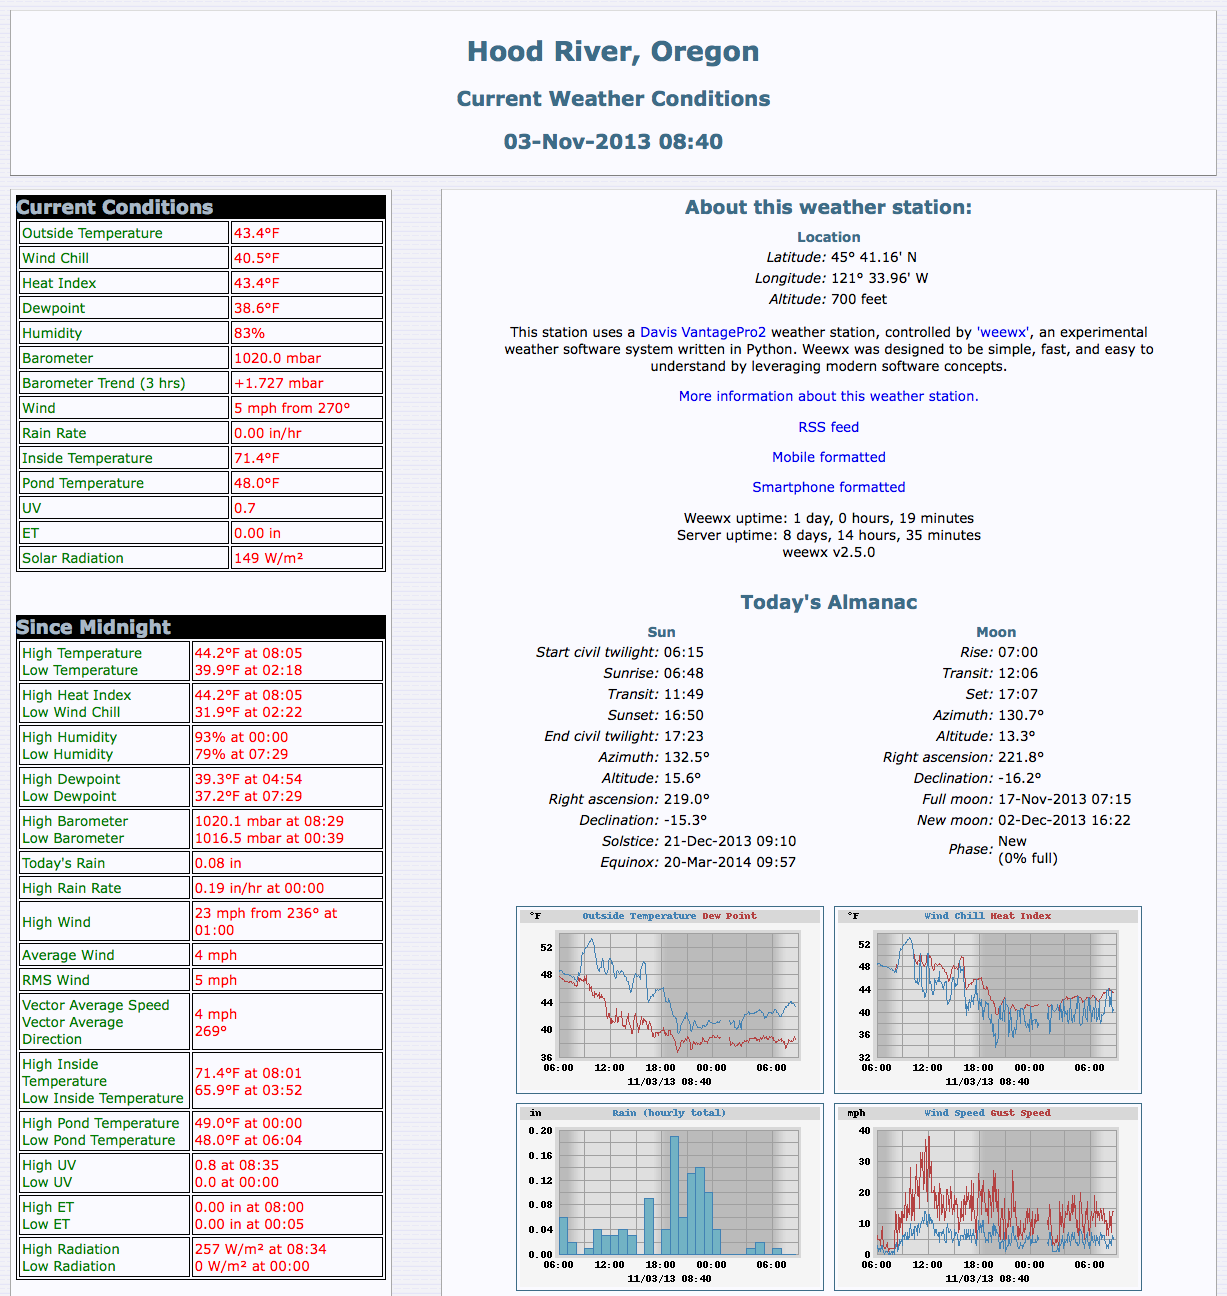
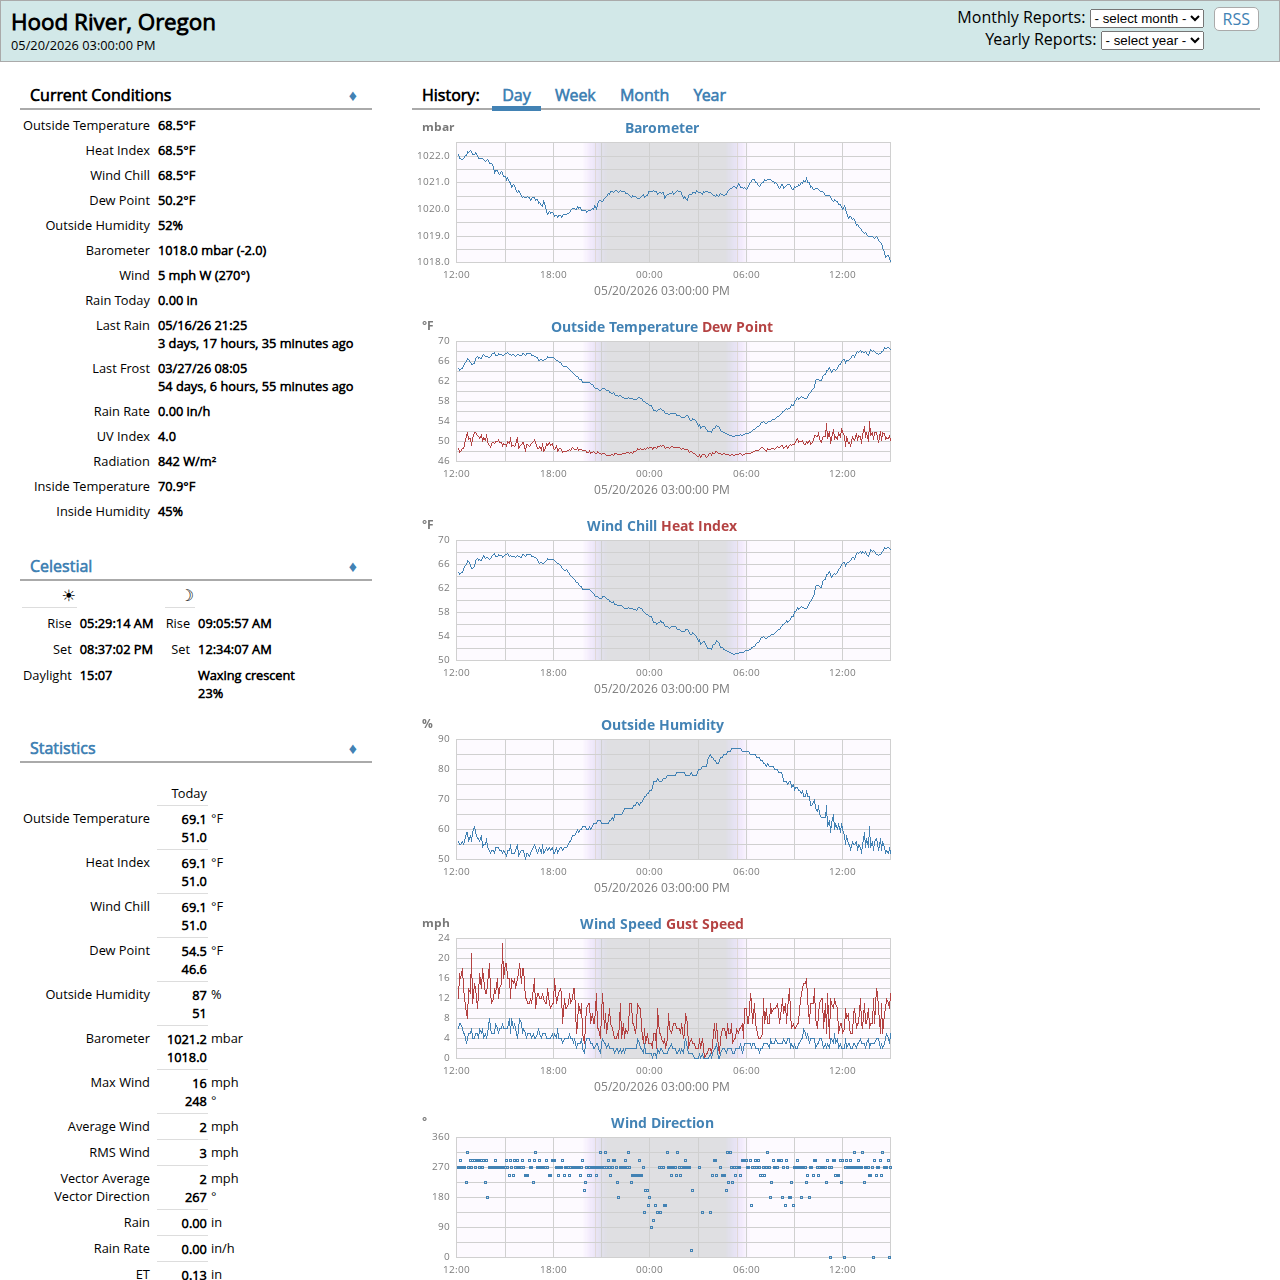
Update and cull the screenshots

diff --git a/js/showcase.js b/js/showcase.js
@@ -16,8 +16,13 @@ const sites = [
     },
     {
         description: 'Claydons, UK',
-        url: 'https://claydonsweather.org.uk/',
+        url: 'http://claydonsweather.org.uk/',
         screenshot: 'claydons.png'
+    },
+    {
+        description: 'Ingolstadt, DE (neowx-material skin)',
+        url: 'https://github.com/seehase/neowx-material',
+        screenshot: 'ingolstadt_de.png'
     },
     {
         description: 'Royston, UK',
@@ -25,49 +30,14 @@ const sites = [
         screenshot: 'royston.png'
     },
     {
-        description: 'ruskers.com',
-        url: 'http://wx.ruskers.com/',
-        screenshot: 'ruskers.png'
-    },
-    {
-        description: 'Wetter-Pattensen',
-        url: 'http://wetter-pattensen.de',
-        screenshot: 'pattensen.png'
-    },
-    {
         description: 'Solås, Ålgård, Norway',
         url: 'https://www.kanonbra.com/veret/',
         screenshot: 'solas.png'
     },
     {
-        description: 'AmatYr - Naustvika',
-        url: 'http://yr.hveem.no',
-        screenshot: 'amatyr.png'
-    },
-    {
-        description: 'Meteo Saint-Sulpice',
-        url: 'https://www.meteosaintsulpice.fr/',
-        screenshot: 'meteosaintsulpice.png'
-    },
-    {
         description: 'Tinos Wetterseite',
         url: 'https://tino.cc',
         screenshot: 'tino.png'
-    },
-    {
-        description: 'Yubileyny Moscow',
-        url: 'http://yubileyny.meteoweb.ru/',
-        screenshot: 'yubileyny.png'
-    },
-    {
-        description: 'Narangba, Queensland, Australia',
-        url: 'http://www.therodericks.id.au/saratoga/wxindex.php',
-        screenshot: 'narangba.png'
-    },
-    {
-        description: 'Ballymote, Sligo, Ireland',
-        url: 'http://goodsquishy.com/weather/',
-        screenshot: 'ballymote.png'
     },
     {
         description: 'Berkeley, California',
@@ -95,39 +65,9 @@ const sites = [
         screenshot: 'sonderstrand.png'
     },
     {
-        description: 'Kongsvinger, Norway',
-        url: 'http://www.bogeraasen.net/index-en.php',
-        screenshot: 'kongsvinger.png'
-    },
-    {
-        description: 'Trout River, Quebec',
-        url: 'http://www.scratchypants.com/wx/',
-        screenshot: 'troutriver.png'
-    },
-    {
-        description: 'eMBeZon, Ypenburg, Holland',
-        url: 'http://www.embezon.nl/embezon/WEATHER_data/',
-        screenshot: 'ypenburg.png'
-    },
-    {
         description: 'Harper, Texas',
         url: 'http://weather.janeandjohn.org/',
         screenshot: 'harper.png'
-    },
-    {
-        description: 'Grayson Highlands, Virginia',
-        url: 'http://weather.graysonfriends.org/',
-        screenshot: 'grayson-highlands.png'
-    },
-    {
-        description: 'Surry, Virginia',
-        url: 'http://weather.chippokes.com/',
-        screenshot: 'surry.png'
-    },
-    {
-        description: 'Bacchus Marsh, Victoria, AU',
-        url: 'http://wotid.dyndns.org/weather/',
-        screenshot: 'bacchusmarsh.png'
     },
     {
         description: 'Мичуринское',